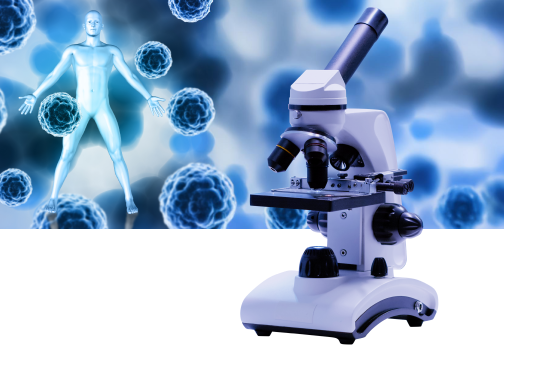
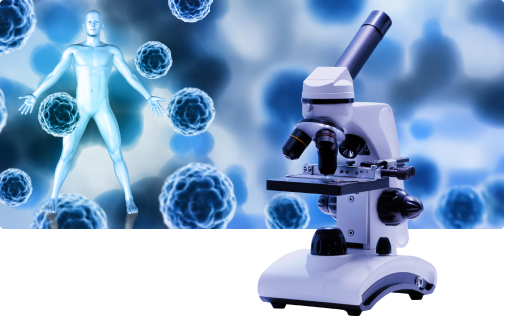
about us microscope change

diff --git a/mkcbiotherapeutics/assets/global.css b/mkcbiotherapeutics/assets/global.css
@@ -2112,7 +2112,7 @@ hr.OA_page.OApage-divider.OApage_divider-3 {
   }
 
   .aboutpage_section1 .about__mkc--texts {
-    width: 44%;
+    width: 52%;
   }
 
   .aboutpage-cards {
@@ -2133,10 +2133,6 @@ hr.OA_page.OApage-divider.OApage_divider-3 {
 
   .aboutpage_section2-textimg {
     width: 45%;
-  }
-
-  .about__mkc--image {
-    width: 55%;
   }
 
   .contactus_page-form .contact_form-container1 {
@@ -2856,6 +2852,15 @@ hr.OA_page.OApage-divider.OApage_divider-3 {
     justify-content: center;
     display: flex;
     flex-direction: column;
+  }
+
+  .aboutpage_section1 img {
+    width: unset;
+  }
+
+  .aboutpage_section1 .about__mkc--image {
+    margin-top: 30px;
+    margin-bottom: -25px;
   }
 }
 
